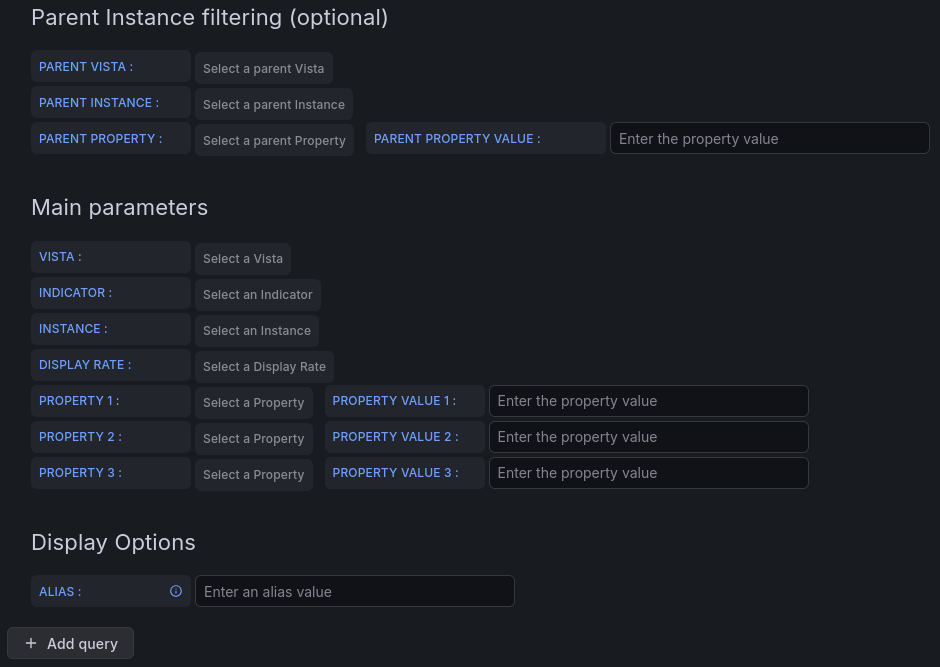
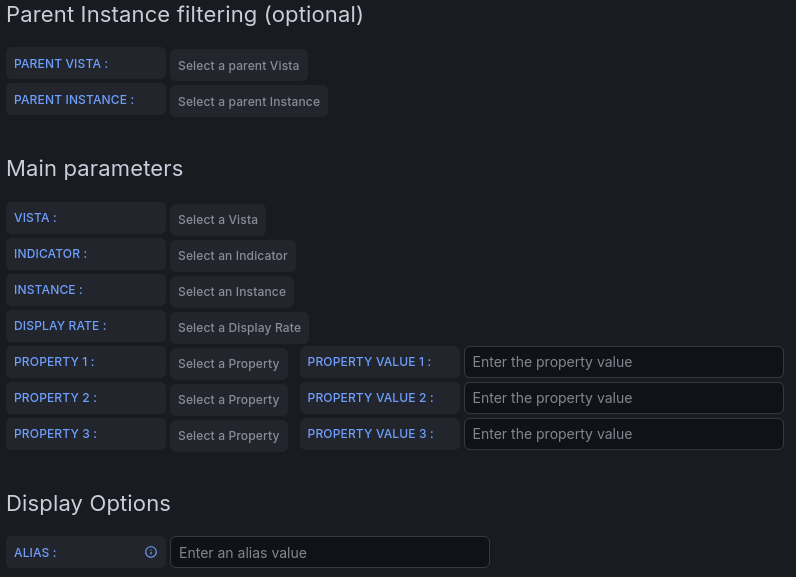
property management modification, sample dashboard modification and readme update

diff --git a/src/QueryEditor.tsx b/src/QueryEditor.tsx
@@ -262,26 +262,6 @@ export class QueryEditor extends PureComponent<Props, Istate> {
                 placeholder="Select a parent Instance"
               />
             </SegmentAsyncLabel>
-            <Stack direction="row">
-              <SegmentAsyncLabel label="PARENT PROPERTY :" grow={true} labelWidth={10}>
-                <SegmentAsync
-                  loadOptions={() => this.props.datasource.getAllProperties(this.state.parentVista, removeOption)}
-                  onChange={this.handleChangeParentProperty}
-                  allowCustomValue={true}
-                  value={this.state.parentProperty}
-                  placeholder="Select a parent Property"
-                />
-              </SegmentAsyncLabel>
-              <SegmentAsyncLabel label="PARENT PROPERTY VALUE :" grow={true} labelWidth={15}>
-                <Input
-                  width={40}
-                  value={this.state.parentPropertyValue}
-                  onChange={this.handleChangeParentPropertyValue}
-                  onBlur={(event: FocusEvent<HTMLInputElement>) => this.checkRunQueryInput(event)}
-                  placeholder="Enter the property value"
-                />
-              </SegmentAsyncLabel>
-            </Stack>
           </FieldSet>
           <FieldSet label="Main parameters">
             <SegmentAsyncLabel label="VISTA :" grow={true} labelWidth={10}>

diff --git a/src/DataSource.ts b/src/DataSource.ts
@@ -370,6 +370,25 @@ export class DataSource extends DataSourceApi<MyQuery, MyDataSourceOptions> {
       url = url + '&indicators=' + encodeURIComponent(indicator);
     }
 
+    // Iterate on properties
+    const property1 = target.property1 !== undefined ? target.property1.label : undefined;
+    const propertyValue1 = target.propertyValue1;
+    if (property1 && propertyValue1) {
+      url = url + '&property1=' + encodeURIComponent(property1) + '&propertyValue1=' + encodeURIComponent(propertyValue1);
+
+      const property2 = target.property2 !== undefined ? target.property2.label : undefined;
+      const propertyValue2 = target.propertyValue2;
+      if (property2 && propertyValue2) {
+        url = url + '&property2=' + encodeURIComponent(property2) + '&propertyValue2=' + encodeURIComponent(propertyValue2);
+
+        const property3 = target.property3 !== undefined ? target.property3.label : undefined;
+        const propertyValue3 = target.propertyValue3;
+        if (property3 && propertyValue3) {
+          url = url + '&property3=' + encodeURIComponent(property3) + '&propertyValue3=' + encodeURIComponent(propertyValue3);
+        }
+      }
+    }
+
     return await firstValueFrom(getBackendSrv().fetch({
       url: url,
       method: 'GET',

diff --git a/README.md b/README.md
@@ -21,22 +21,30 @@ Ativa Net data source is connecting to Ativa Net with Ativa Net API.
 
 ### Requirements
 The following software must be installed in order to use this data source
-- Ativa Net 26.1
+- Ativa Net 26.1+
+
+### Plugin compatibility
+| Plugin version | Data source                        |
+|----------------|------------------------------------|
+| 26.1+          | Ativa Net 26.1+                    |
+| 2021.3         | VistaPortal 2021.3 / VistaMart 6.1 |
 
 ## Installation
 
 As `grafana-cli` installation is not supported, installation must be done manually.
 
 - Go to the [GitHub Releases page](https://github.com/infovista/vistamart-datasource/releases)
-- Download the latest 'infovista-ativanet-datasource-26.1.0' zip file
+- Download the latest 'infovista-ativanet-datasource-26.1' zip file
 - Unzip the file under the grafana plugins folder e.g. /var/lib/grafana/plugins (in order to have a `<plugins dir>/infovista-ativanet-datasource` folder e.g /var/lib/grafana/plugins/infovista-ativanet-datasource)
+- This plugin is unsigned, so you must enable unsigned plugins in the grafana configuration file (e.g. /etc/grafana/grafana.ini) by adding the following line under the `[plugins]` section:
+  `allow_loading_unsigned_plugins = infovista-ativanet-datasource`
 - Restart grafana server
 - You should find a "Infovista Ativa Net" plugin in the available plugins
 
 ## Getting Started
 
 ### Ativa Net Web Portal certificate
-Warning: the certificate of the Ativa Net Web Portal must be known by the host of the grafana server (e.g. by adding it to the host). If not, the message `Bad Gateway` may be returned when saving and testing the data source connection.
+Warning: the certificate of the Ativa Web Portal must be known by the host of the grafana server (e.g. by adding it to the host). If not, the message `Bad Gateway` may be returned when saving and testing the data source connection.
 
 ### Ativa Net API access configuration
 To access Ativa Net API, an Open ID Connect private client must be created into the Ativa Net Web Portal Administration interface,<br>
@@ -84,7 +92,6 @@ The query parameters are used to identify the right Ativa Net started slots in t
 * Parent Instance Filtering (optional): Used when querying instance having a parent instance (like an Interface vista instance)
   * *PARENT VISTA*: Indicates the parent instance vista (based on the list of top vistas available in the Ativa Net topology).
   * *PARENT INSTANCE*: Indicates the parent instance (based on the list of instances available in the Ativa Net topology filtered by the selected parent vista).
-  * *PARENT PROPERTY* & *PARENT PROPERTY VALUE*: Additional instance filtering based on a property and its property value
 * Display Options
   * *ALIAS* : Can be used to override the serie name. By default, the name is "indicatorName (Instance Name)" but by using the following keywords, its name can be overriden:
     * *$i*: Indicator Name
@@ -94,9 +101,12 @@ The query parameters are used to identify the right Ativa Net started slots in t
     * *$N*: Basic Instance Name
     *  Any other text: The typed text
 
-![Parameters example](https://github.com/infovista/vistamart-datasource/blob/main/src/images/parameters.png?raw=true)
+Note : *INSTANCE* and *PROPERTY N* are mutually exclusive.
 
 Note : Please note that Shared Criterias are also applied on topology objects (like Instance, Property...)
+
+![Parameters example](https://github.com/infovista/vistamart-datasource/blob/main/src/images/parameters.png?raw=true)
+
 
 ### Using variables in a dashboard
 
@@ -139,7 +149,7 @@ Note for "Multi-value" usage: If a template variable is defined as *Multi-value*
 
 ### Using annotations in a dashboard
 
-Annotations can be used to display events on a dashboard. An annotation query is made of 3 mandatory elements to be selected: the *Vista*, the *Instance* and the *Indicator* of the events to be retrieved if any.
+Annotations can be used to display events on a dashboard. An annotation query is made of 3 mandatory elements to be selected: the *Vista*, the *Instance* (can be a variable) and the *Indicator* of the events to be retrieved if any.
 
 ![Annotations](https://github.com/infovista/vistamart-datasource/blob/main/src/images/annotations_editor.png?raw=true)
 

diff --git a/CHANGELOG.md b/CHANGELOG.md
@@ -2,7 +2,7 @@
 
 All notable changes to this project will be documented in this file.
 
-## 26.1.0
+## v26.1.0
 - Ativa Net as data source
 
 ## v2021.9.0
